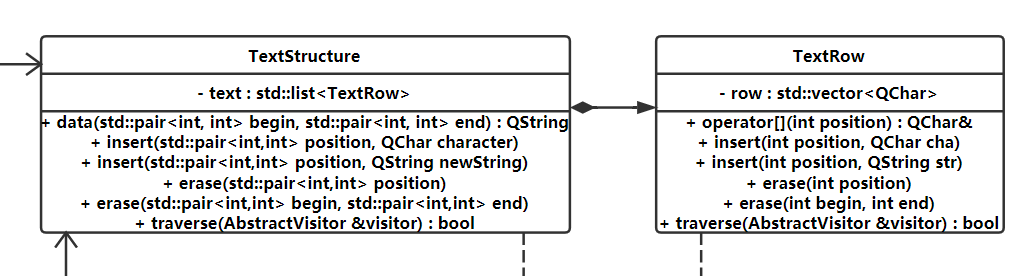
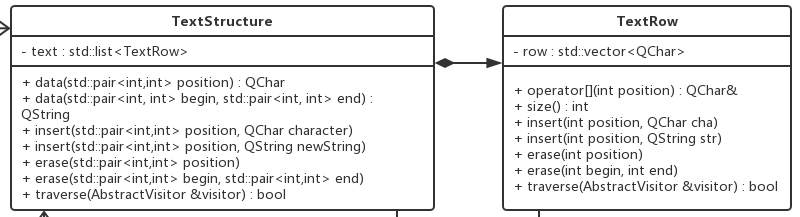
update pics

diff --git a/textfile.cpp b/textfile.cpp
@@ -26,9 +26,7 @@ TextFile::TextFile()
       historyList(),
       nextCommand(historyList.end())
 {
-    //text->insert({0,0}, QChar('\n'));
     qDebug()<<"Empty TextFile Construted";
-    //qDebug()<<QUrl("file:file.txt").url();
 }
 
 TextFile::TextFile(QUrl address)

diff --git a/docs/总体方案设计说明.md b/docs/总体方案设计说明.md
@@ -35,7 +35,7 @@ QML主要通过Application和TextFile两个类(Mediator)来和C++传递数据
 
 ## 3.2 基本数据结构
 ![基本数据结构](base-s.png)   
-TextRow是一个QChar的数组，支持数组的基本操作，如通过下标运算符实现的随机访问，获取数组大小，获取数组容量，插入，删除，遍历这些基本操作
+TextRow是一个QChar的数组，支持数组的基本操作，如通过下标运算符实现的随机访问，获取数组大小，插入，删除，遍历这些基本操作
 
 ## 3.3 Visitor继承体系
 ![visitor](visitor-s.png)  
